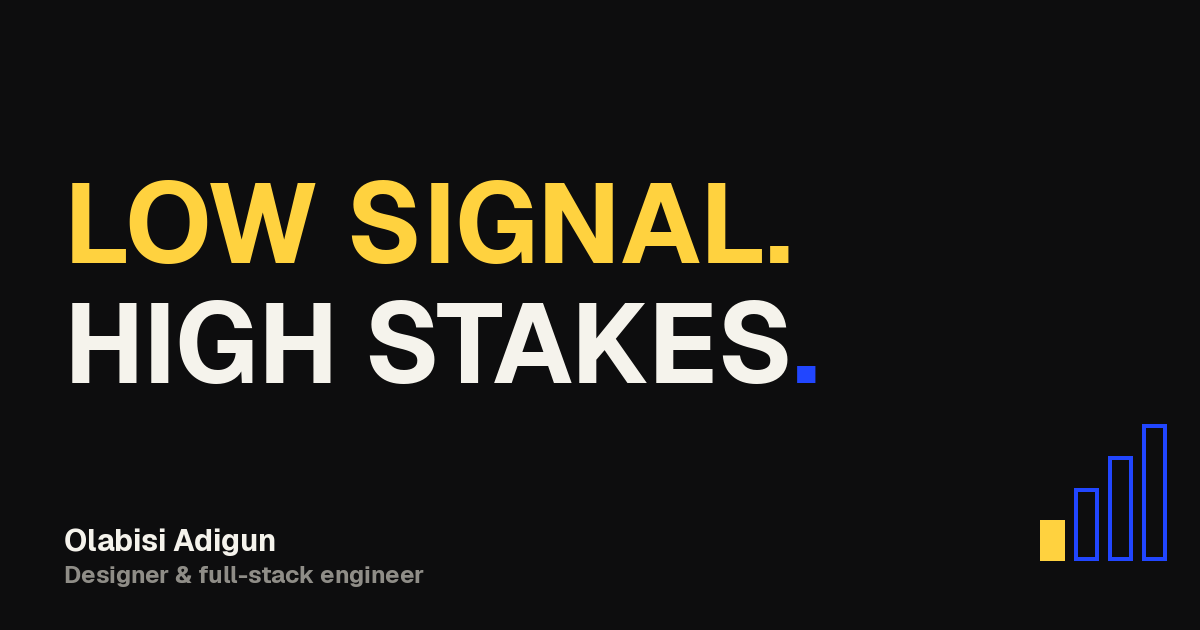
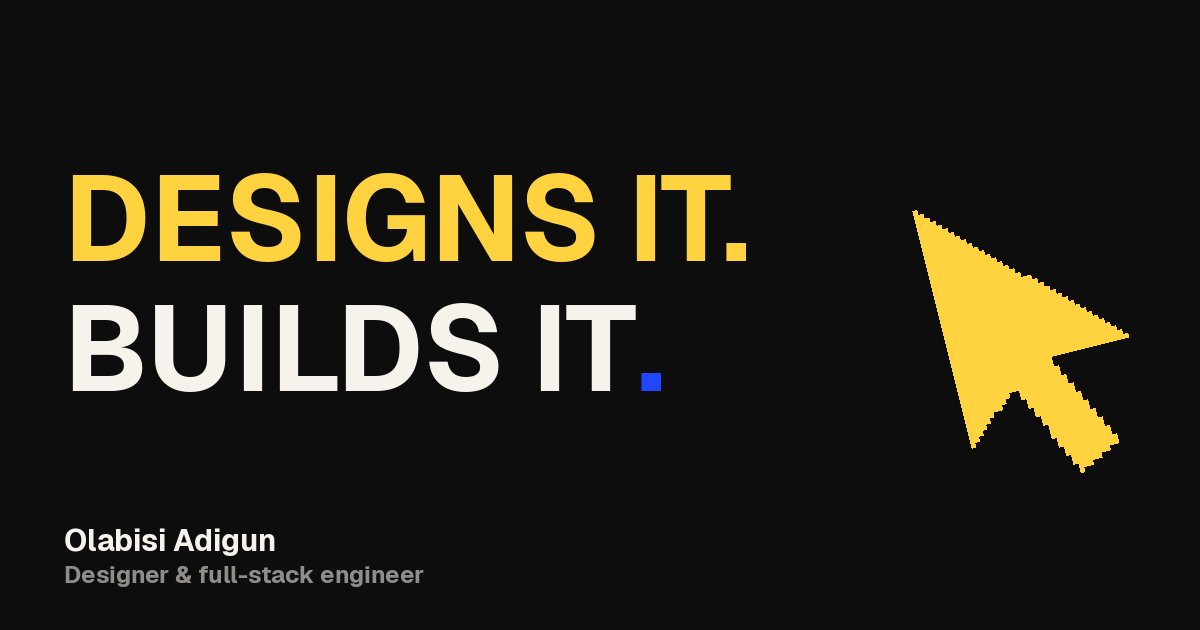
Broaden the home hero to "Designs it. Builds it."
The old hero and statement band framed the work as offline-only. The
hero now reads "Designs it. Builds it." with a line covering brands,
websites, apps and AI features, the graphic is a pixel cursor again, and
the blue band talks about the range of problems rather than bad networks.
Meta description, search entry, llms.txt and the share image match.

Claude-Session: https://claude.ai/code/session_01D55KRc1r6d93DX7ijnfqif

Changed region(s): [[0.0617, 0.4524, 0.6783, 0.6333], [0.0617, 0.2714, 0.6783, 0.4222], [0.74, 0.3317, 0.9867, 0.9048]]

diff --git a/index.html b/index.html
@@ -6,17 +6,17 @@
 <meta http-equiv="Content-Security-Policy" content="default-src 'self'; script-src 'self'; style-src 'self' 'unsafe-inline' https://fonts.googleapis.com; font-src https://fonts.gstatic.com; img-src 'self' data:; connect-src 'self' https://formsubmit.co; form-action https://formsubmit.co; base-uri 'self'; object-src 'none'">
 <meta name="referrer" content="strict-origin-when-cross-origin">
 <title>Olabisi Adigun · Designer &amp; Full-stack Engineer</title>
-<meta name="description" content="Olabisi Adigun designs and builds products that still work when the network, the budget or the day goes wrong: fintech, education, safety and brand systems.">
+<meta name="description" content="Olabisi Adigun is a designer and full-stack engineer: brands, websites, apps and AI features, from the first sketch to the live product.">
 <link rel="canonical" href="https://olabisiadigun.xyz/">
 <meta property="og:site_name" content="Olabisi Adigun">
 <meta property="og:title" content="Olabisi Adigun · Designer &amp; Full-stack Engineer">
-<meta property="og:description" content="Olabisi Adigun designs and builds products that still work when the network, the budget or the day goes wrong: fintech, education, safety and brand systems.">
+<meta property="og:description" content="Olabisi Adigun is a designer and full-stack engineer: brands, websites, apps and AI features, from the first sketch to the live product.">
 <meta property="og:image" content="https://olabisiadigun.xyz/assets/og.png">
 <meta property="og:url" content="https://olabisiadigun.xyz/">
 <meta property="og:type" content="website">
 <meta name="twitter:card" content="summary_large_image">
 <meta name="twitter:title" content="Olabisi Adigun · Designer &amp; Full-stack Engineer">
-<meta name="twitter:description" content="Olabisi Adigun designs and builds products that still work when the network, the budget or the day goes wrong: fintech, education, safety and brand systems.">
+<meta name="twitter:description" content="Olabisi Adigun is a designer and full-stack engineer: brands, websites, apps and AI features, from the first sketch to the live product.">
 <meta name="twitter:image" content="https://olabisiadigun.xyz/assets/og.png">
 <meta name="theme-color" content="#0d0d0e">
 <link rel="icon" href="/favicon.svg" type="image/svg+xml">
@@ -51,9 +51,9 @@
 <section class="s-ink hero" data-surface="ink">
   <div class="wrap">
     <canvas class="hero-canvas" aria-hidden="true"></canvas>
-    <h1 class="hero-title"><span class="vh">Olabisi Adigun, designer and engineer: </span><span class="row r1"><span>Low signal.</span></span><span class="row r2"><span>High stakes<span class="dot">.</span></span></span></h1>
+    <h1 class="hero-title"><span class="vh">Olabisi Adigun, designer and engineer: </span><span class="row r1"><span>Designs it.</span></span><span class="row r2"><span>Builds it<span class="dot">.</span></span></span></h1>
     <div class="hero-foot">
-      <p class="hero-tag">I design and build products that still work when the network, the budget or the day goes wrong: offline payments, campus safety, learning without internet.</p>
+      <p class="hero-tag">I’m a designer and full-stack engineer. Brands, websites, apps and AI features, from the first sketch to the live product.</p>
       <div class="hero-actions"><a class="btn yellow" href="/contact/">Start a project <span class="arrow" aria-hidden="true"><svg viewBox="0 0 16 16" fill="none"><path d="M4 12L12 4M5.5 4H12v6.5" stroke="currentColor" stroke-width="1.4"/></svg></span></a><a class="btn" href="/works/">See the work <span class="arrow" aria-hidden="true"><svg viewBox="0 0 16 16" fill="none"><path d="M2 8h11.5M9 3.5L13.5 8 9 12.5" stroke="currentColor" stroke-width="1.4"/></svg></span></a></div>
       <div class="hero-strip">
         <a class="scroll" href="#work"><i></i>Scroll to explore</a>
@@ -107,9 +107,9 @@
 </section>
 <section class="s-blue section" data-surface="blue">
 <div class="wrap statement">
-  <div class="head-row"><span class="label">A point of view</span><span class="label">Why I build for hard conditions</span></div>
-  <h2 class="display lines">From one bar<br>to “it just<br>works.”</h2>
-  <div class="statement-foot reveal"><span class="mark" aria-hidden="true"><svg viewBox="0 0 48 36" fill="none"><rect x="1" y="26" width="9" height="9" fill="currentColor"/><rect x="13.5" y="18" width="9" height="17" stroke="currentColor" stroke-width="1.6"/><rect x="26" y="10" width="9" height="25" stroke="currentColor" stroke-width="1.6"/><rect x="38.5" y="1" width="8.5" height="34" stroke="currentColor" stroke-width="1.6"/></svg></span><p>Most of what I build has to survive bad networks, tight budgets and real emergencies. Lectures that travel phone to phone. Payments that settle offline. An SOS that hops over Bluetooth until it finds a signal. Making that feel effortless is the job.</p><a class="ulink" href="/about/">How I work <span class="arrow" aria-hidden="true"><svg viewBox="0 0 16 16" fill="none"><path d="M4 12L12 4M5.5 4H12v6.5" stroke="currentColor" stroke-width="1.4"/></svg></span></a></div>
+  <div class="head-row"><span class="label">A point of view</span><span class="label">Why the range</span></div>
+  <h2 class="display lines">From a messy idea<br>to “why didn’t<br>this exist?”</h2>
+  <div class="statement-foot reveal"><span class="mark" aria-hidden="true"><svg viewBox="0 0 36 36" fill="none"><path d="M6 3v26l7-6.5 5 10.5 5-2.3-5-10.3h10z" fill="currentColor"/></svg></span><p>An AI assistant’s product site. A brand system for healthcare. Payments that settle offline. A campus SOS that answers in seconds. Different problems, same job: understand what people actually need, then design and build it until it feels obvious.</p><a class="ulink" href="/about/">How I work <span class="arrow" aria-hidden="true"><svg viewBox="0 0 16 16" fill="none"><path d="M4 12L12 4M5.5 4H12v6.5" stroke="currentColor" stroke-width="1.4"/></svg></span></a></div>
 </div>
 </section>
 <section class="s-paper section" data-surface="paper">
@@ -125,7 +125,7 @@
     <div class="polaroids reveal d1">
       <figure class="polaroid p1 grey"><div class="sk "><img src="/assets/me/olabisi-candid.webp" alt="Olabisi Adigun standing against a textured wall" width="900" height="1200" loading="lazy" decoding="async"></div><figcaption><span>Olabisi</span><span>Nigeria</span></figcaption></figure>
       <figure class="polaroid p2 grey"><div class="sk "><img src="/assets/me/olabisi-sketch.webp" alt="Charcoal sketch portrait of Olabisi Adigun" width="900" height="1200" loading="lazy" decoding="async"></div><figcaption><span>Sketch</span><span>Charcoal</span></figcaption></figure>
-      <span class="sticker">Designs it. Builds it.</span>
+      <span class="sticker">Brand to backend.</span>
     </div>
   </div>
   <div class="record" style="margin-top:clamp(70px,8vw,120px)">

diff --git a/site.js b/site.js
@@ -494,27 +494,42 @@
   var thanksName = $('[data-thanks-name]');
   if (thanksName) { var n = store.get('brief-name'); if (n) thanksName.textContent = ', ' + n; }
 
-  /* ── Hero: pixel signal bars, one bar lit ── */
+  /* ── Hero: pixel-noise pointer ── */
   var canvas = $('.hero-canvas');
   if (canvas && canvas.getContext) {
     var ctx = canvas.getContext('2d');
-    var G = 48;
+    var GW = 48, GH = 64;
     var off = document.createElement('canvas');
-    off.width = G; off.height = G;
+    off.width = GW; off.height = GH;
     var octx = off.getContext('2d');
-    var img = octx.createImageData(G, G);
-    // four bars: x-start, width, height (grid units), bottom-aligned
-    var bars = [[2, 9, 14], [14, 9, 24], [26, 9, 34], [38, 9, 44]];
-    var cell = new Int8Array(G * G); // 0 empty, 1 lit bar, 2 outline bar
-    bars.forEach(function (b, i) {
-      for (var y = G - b[2]; y < G; y++) for (var x = b[0]; x < b[0] + b[1]; x++) {
-        var edge = x === b[0] || x === b[0] + b[1] - 1 || y === G - b[2];
-        if (i === 0) cell[y * G + x] = 1;
-        else if (edge) cell[y * G + x] = 2;
+    var img = octx.createImageData(GW, GH);
+    // classic pointer silhouette, in grid units
+    var poly = [[6, 2], [6, 50], [17, 40], [26, 60], [34, 56], [25, 37], [41, 36]];
+    var inside = function (x, y) {
+      var c = false;
+      for (var i = 0, j = poly.length - 1; i < poly.length; j = i++) {
+        var xi = poly[i][0], yi = poly[i][1], xj = poly[j][0], yj = poly[j][1];
+        if (((yi > y) !== (yj > y)) && (x < (xj - xi) * (y - yi) / (yj - yi) + xi)) c = !c;
       }
-    });
-    var yellow = [[255, 210, 63], [255, 222, 102], [245, 196, 0], [255, 232, 140]];
-    var blue = [[33, 70, 255], [22, 52, 214], [72, 104, 255]];
+      return c;
+    };
+    var edge = function (x, y) {
+      var best = 1e9;
+      for (var i = 0, j = poly.length - 1; i < poly.length; j = i++) {
+        var ax = poly[j][0], ay = poly[j][1], dx = poly[i][0] - ax, dy = poly[i][1] - ay;
+        var t = Math.max(0, Math.min(1, ((x - ax) * dx + (y - ay) * dy) / (dx * dx + dy * dy)));
+        var ex = ax + t * dx - x, ey = ay + t * dy - y;
+        best = Math.min(best, ex * ex + ey * ey);
+      }
+      return Math.sqrt(best);
+    };
+    var mask = new Float32Array(GW * GH);
+    for (var y = 0; y < GH; y++) for (var x = 0; x < GW; x++) {
+      var d = edge(x + .5, y + .5);
+      mask[y * GW + x] = inside(x + .5, y + .5) ? 1 : (d < 2.2 ? -d : 0);
+    }
+    var yellow = [[255, 210, 63], [255, 222, 102], [245, 196, 0], [255, 232, 140], [250, 204, 40]];
+    var blue = [[33, 70, 255], [72, 104, 255]];
     var hash = function (x, y, t) { var n = Math.sin(x * 127.1 + y * 311.7 + t * 74.7) * 43758.5453; return n - Math.floor(n); };
     var size = function () {
       var r = canvas.getBoundingClientRect(), dpr = Math.min(2, window.devicePixelRatio || 1);
@@ -527,26 +542,23 @@
     var draw = function () {
       frame++;
       var t = Math.floor(frame / 6), data = img.data;
-      var searching = (Math.floor(frame / 40) % 4); // outline bars flicker as if searching for signal
-      for (var i = 0; i < G * G; i++) {
-        var c = cell[i], k = i * 4, px = i % G, py = (i / G) | 0;
-        if (!c) { data[k + 3] = 0; continue; }
-        var h = hash(px, py, t), col;
-        if (c === 1) { if (h < 0.04) { data[k + 3] = 0; continue; } col = yellow[(hash(px + 5, py, t) * yellow.length) | 0]; }
-        else {
-          var barIdx = px < 14 ? 0 : px < 26 ? 1 : px < 38 ? 2 : 3;
-          var on = barIdx === searching ? h > 0.1 : h > 0.55;
-          if (!on) { data[k + 3] = 0; continue; }
-          col = blue[(hash(px, py + 3, t) * blue.length) | 0];
-        }
-        data[k] = col[0]; data[k + 1] = col[1]; data[k + 2] = col[2]; data[k + 3] = 255;
+      for (var i = 0; i < GW * GH; i++) {
+        var m = mask[i], px = i % GW, py = (i / GW) | 0, k = i * 4, h = hash(px, py, t);
+        var on = m === 1 ? h > 0.035 : (m < 0 ? h > 0.72 + (-m) * 0.12 : false);
+        if (!on) { data[k + 3] = 0; continue; }
+        var c = hash(px + 3, py + 7, t) < 0.08 ? blue[(h * blue.length) | 0] : yellow[(hash(px + 5, py, t) * yellow.length) | 0];
+        data[k] = c[0]; data[k + 1] = c[1]; data[k + 2] = c[2]; data[k + 3] = 255;
       }
       octx.putImageData(img, 0, 0);
       var W = canvas.width, H = canvas.height;
       ctx.clearRect(0, 0, W, H);
       ctx.imageSmoothingEnabled = false;
-      var s = Math.min(W, H) / G;
-      ctx.drawImage(off, (W - G * s) / 2, (H - G * s) / 2, G * s, G * s);
+      ctx.save();
+      ctx.translate(W / 2, H / 2);
+      ctx.rotate(-14 * Math.PI / 180);
+      var s = Math.min(W / GW, H / GH) * 0.9;
+      ctx.drawImage(off, -GW * s / 2, -GH * s / 2, GW * s, GH * s);
+      ctx.restore();
     };
     var tick = function () { if (visible) draw(); requestAnimationFrame(tick); };
     draw();

diff --git a/site.css b/site.css
@@ -202,7 +202,7 @@ body.menu-open .nav { --nav-fg: var(--cream); background: transparent; backdrop-
 .hero-title .r1 { color: var(--yellow); }
 .hero-title .r2 { color: var(--cream); padding-left: 8%; }
 .hero-title .dot { color: var(--blue); }
-.hero-canvas { position: absolute; z-index: 3; pointer-events: none; right: var(--gutter); top: 50%; width: min(22vw, 320px); aspect-ratio: 1 / 1; transform: translateY(-84%); }
+.hero-canvas { position: absolute; z-index: 3; pointer-events: none; right: calc(var(--gutter) + 6vw); top: 50%; width: min(20vw, 300px); aspect-ratio: 3 / 4; transform: translateY(-80%); }
 .hero-foot { position: relative; z-index: 4; padding-top: 28px; }
 .hero-tag { font-size: clamp(16px, 1.35vw, 20px); letter-spacing: -0.02em; line-height: 1.35; margin: 0 0 24px; max-width: 540px; }
 .hero-actions { display: flex; gap: 10px; margin-bottom: 30px; flex-wrap: wrap; }
@@ -220,7 +220,7 @@ html.no-js .hero-title .row > span { transform: none; }
   .hero { padding-top: 100px; }
   .hero-title { font-size: clamp(40px, 13.6vw, 104px); }
   .hero-title .r2 { padding-left: 0; }
-  .hero-canvas { top: 96px; width: 34vw; transform: none; }
+  .hero-canvas { top: 90px; right: var(--gutter); width: 30vw; transform: none; }
   .hero-strip { flex-wrap: wrap; gap: 14px 24px; }
   .ticker { flex-basis: 100%; }
 }
